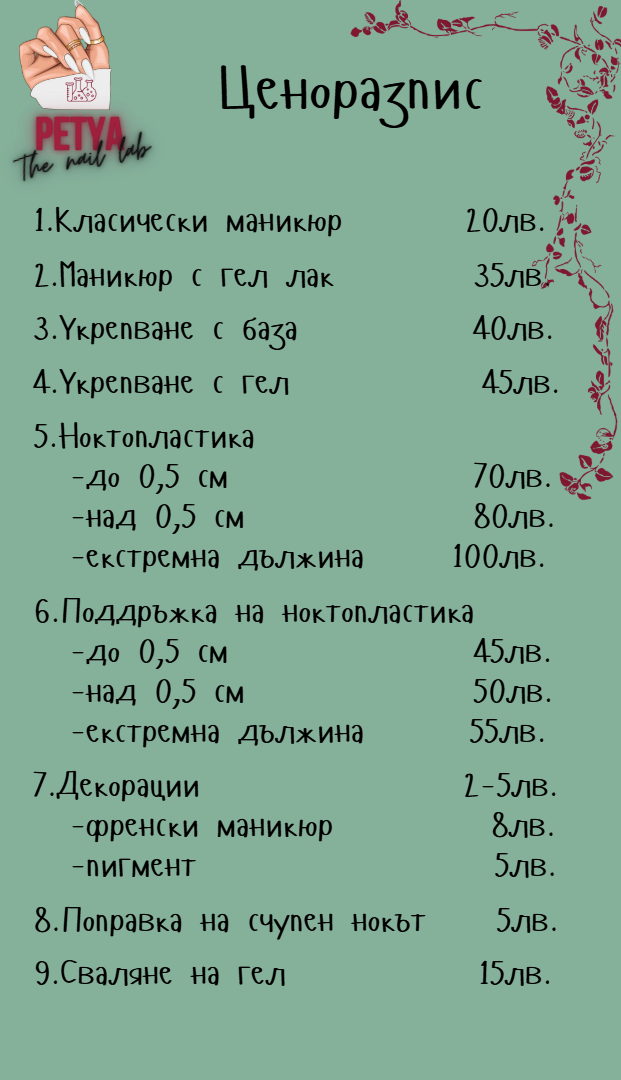
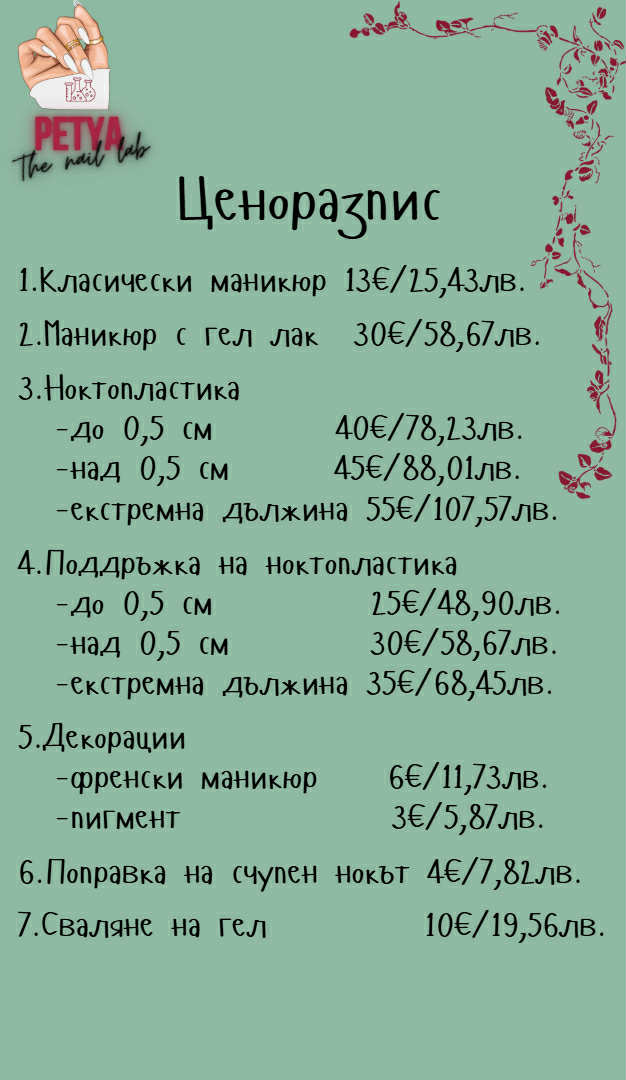
Update- added euro to the prices.

Changed region(s): [[0.0306, 0.0, 1.0, 0.9167]]

diff --git a/templates/services/services_page.html b/templates/services/services_page.html
@@ -17,9 +17,9 @@
                         <div class="right-div">
                             <img src="{{ service.service_photo.url }}" alt="{{ service.name }}" class="service-img">
                             <p>
-                                Цена: {{ service.price }} лв.
-                                {% if service.max_price %}
-                                    - {{ service.max_price }} лв.
+                                Цена: {{ service.leva_price }} лв.
+                                {% if service.euro_price %}
+                                    // {{ service.euro_price }} €.
                                 {% endif %}
                             </p>
                             <p>Време: ≈{{ service.duration }}мин.</p>

diff --git a/templates/appointments/appointment_details.html b/templates/appointments/appointment_details.html
@@ -17,9 +17,9 @@
             <p>
                 <strong>Време и цена:&nbsp;&nbsp;</strong>
                 ≈{{ appointment.service.duration }}мин. //
-                {{ appointment.service.price}} лв.
-                {% if appointment.service.max_price %}
-                    - {{ appointment.service.max_price }} лв.
+                {{ appointment.service.leva_price }} лв.
+                {% if appointment.service.euro_price %}
+                    - {{ appointment.service.euro_price }} лв.
                 {% endif %}
             </p>
 

diff --git a/templates/appointments/appointment_list.html b/templates/appointments/appointment_list.html
@@ -35,9 +35,9 @@
 
                     <p>
                         <strong>Цена:&nbsp;</strong>
-                        {{ appointment.service.price}} лв.
-                        {% if appointment.service.max_price %}
-                            - {{ appointment.service.max_price }} лв.
+                        {{ appointment.service.leva_price }} лв.
+                        {% if appointment.service.euro_price %}
+                            - {{ appointment.service.euro_price }} лв.
                         {% endif %}
                     </p>
 

diff --git a/templates/services/service_details.html b/templates/services/service_details.html
@@ -10,9 +10,9 @@
             
             <div>
                 <span>
-                    Цена: {{ service.price }} лв.
-                    {% if service.max_price %}
-                        - {{ service.max_price }} лв.
+                    Цена: {{ service.leva_price }} лв.
+                    {% if service.euro_price %}
+                        // {{ service.euro_price }} €.
                     {% endif %}
                 </span>
                 <span>Време: ≈{{ service.duration }}мин.</span>

diff --git a/services/models.py b/services/models.py
@@ -10,8 +10,8 @@ class BaseService(models.Model):
 
     name = models.CharField(max_length=150)
     description = models.CharField(max_length=250)
-    price = models.DecimalField(max_digits=100, decimal_places=2)
-    max_price = models.DecimalField(max_digits=100, decimal_places=2, null=True, blank=True)
+    leva_price = models.DecimalField(max_digits=100, decimal_places=2)
+    euro_price = models.DecimalField(max_digits=100, decimal_places=2, null=True, blank=True)
     duration = models.IntegerField()
     service_photo = models.ImageField(
         storage=MediaCloudinaryStorage(),

diff --git a/services/migrations/0005_rename_max_price_baseservice_euro_price_and_more.py b/services/migrations/0005_rename_max_price_baseservice_euro_price_and_more.py
@@ -1,0 +1,23 @@
+# Generated by Django 5.2.4 on 2025-12-31 15:46
+
+from django.db import migrations
+
+
+class Migration(migrations.Migration):
+
+    dependencies = [
+        ('services', '0004_baseservice_max_price'),
+    ]
+
+    operations = [
+        migrations.RenameField(
+            model_name='baseservice',
+            old_name='max_price',
+            new_name='euro_price',
+        ),
+        migrations.RenameField(
+            model_name='baseservice',
+            old_name='price',
+            new_name='leva_price',
+        ),
+    ]

diff --git a/services/admin.py b/services/admin.py
@@ -6,7 +6,7 @@ from services.models import BaseService
 
 @admin.register(BaseService)
 class ServiceAdmin(admin.ModelAdmin):
-    list_display = ['name', 'description', 'price', 'max_price', 'duration', 'is_active',]
+    list_display = ['name', 'description', 'leva_price', 'euro_price', 'duration', 'is_active', ]
     list_editable = ['is_active',]
     list_filter = ['is_active',]
     search_fields = ['name',]
